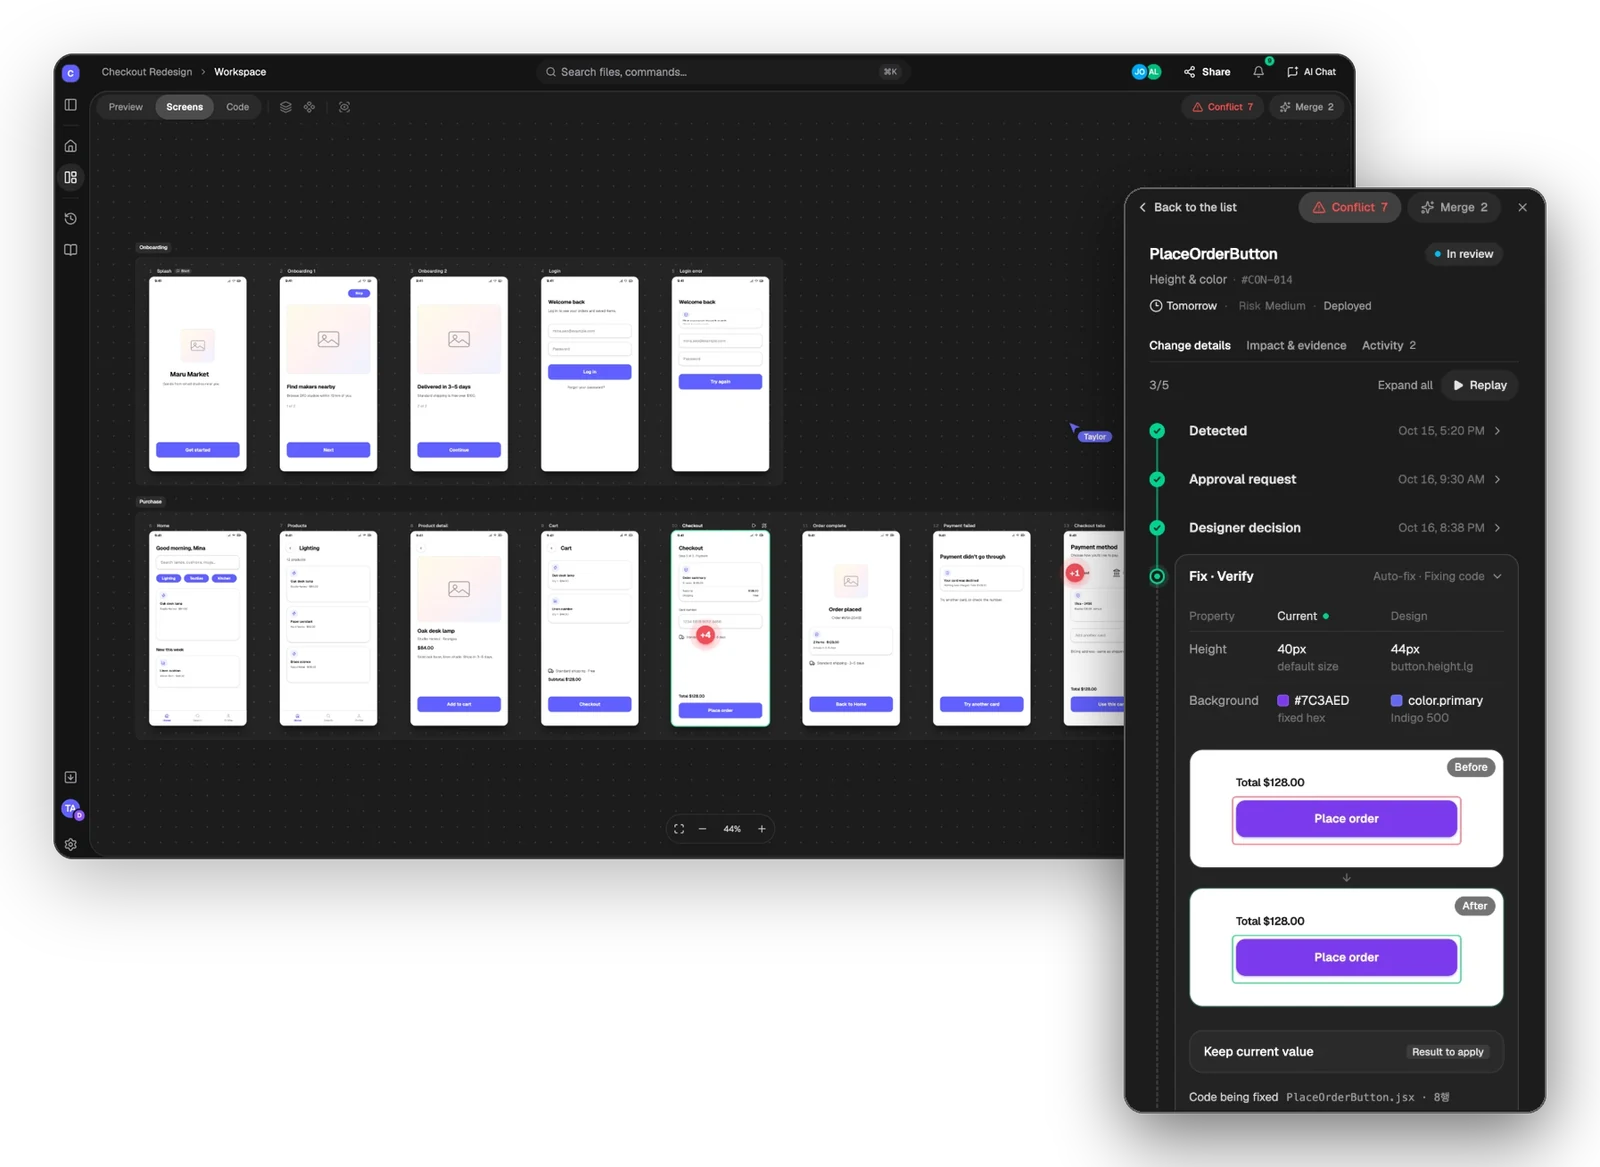
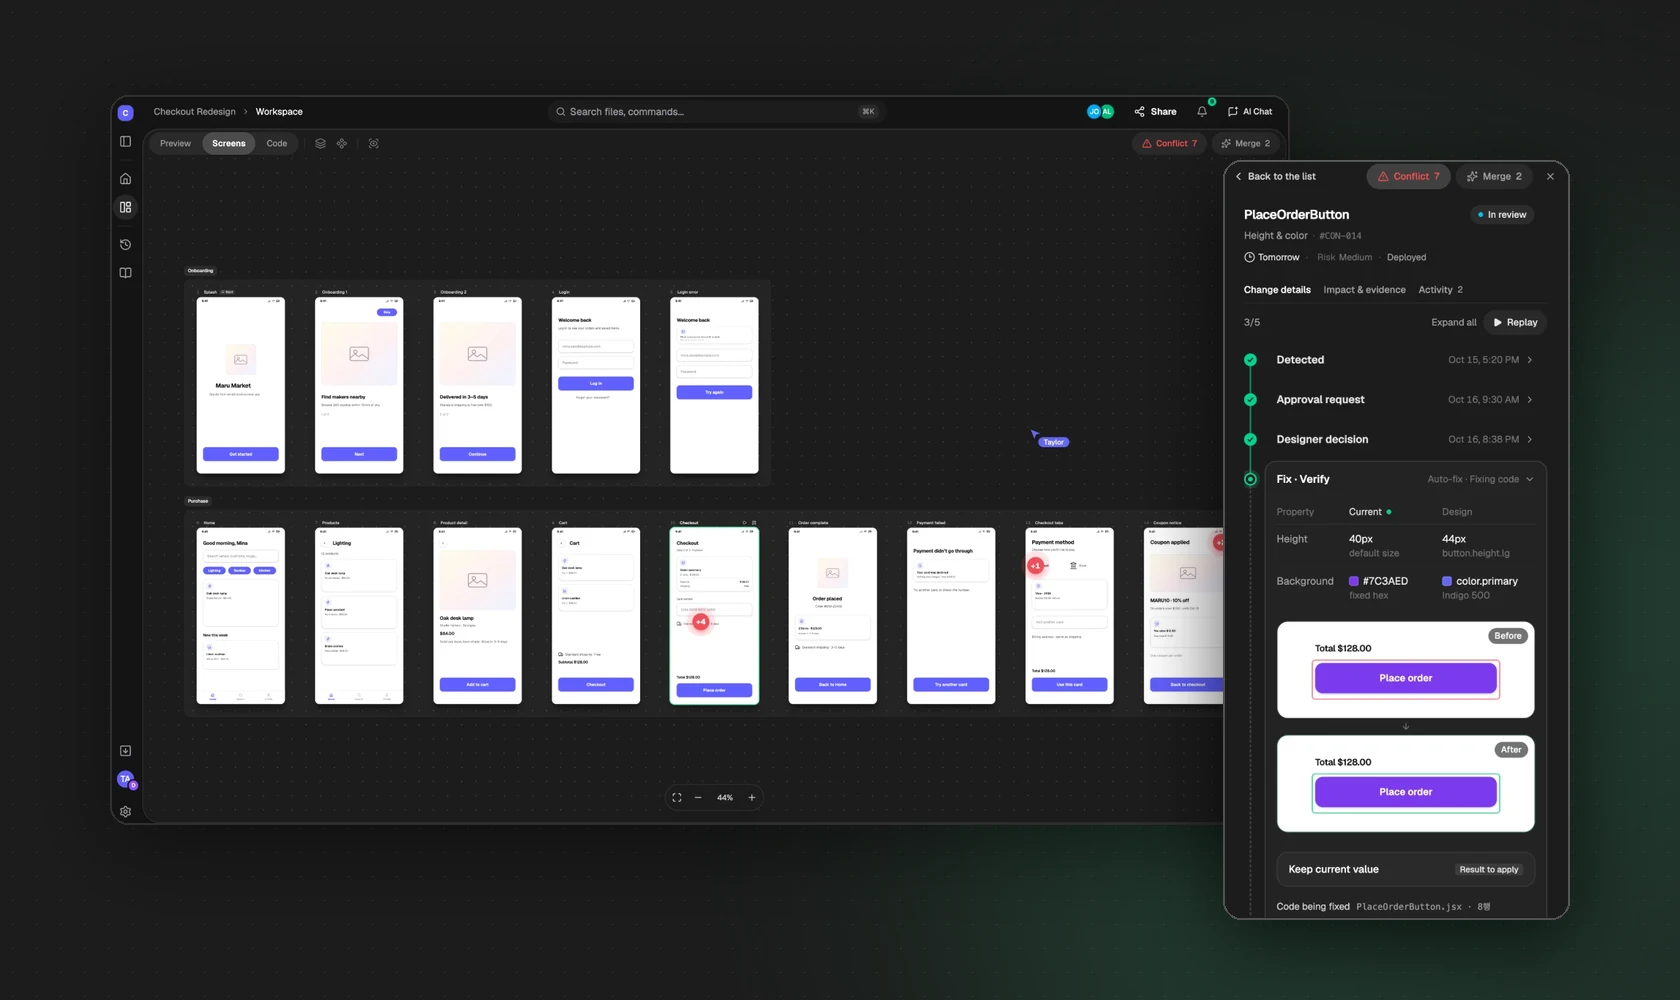
Rebuild the Devsign cover on its own canvas; Email as a button; simpler About copy
- Cover: workspace and change-review panel composed on the dark Devsign
  canvas, rounded, filling the landing card and the hero instead of a
  transparent cut-out inside a mint frame.
- About contact: Email is a pill button next to LinkedIn, with copy.
- About: drop the commit count and click-logging detail; toolkit grouped
  as Research / Design & build / Background.

Claude-Session: https://claude.ai/code/session_01VXWd6RpKBiKuFLnqarEaab

diff --git a/app/globals.css b/app/globals.css
@@ -683,9 +683,9 @@ details[open]::details-content {
   background-position: 12px 12px;
 }
 [data-canvas="true"] .selected-stage-object {
-  border-radius: 0;
-  outline: 1px solid #3dd491;
-  outline-offset: 2px;
+  border-radius: 24px;
+  outline: 1px solid rgb(255 255 255 / 0.08);
+  outline-offset: -1px;
 }
 [data-canvas="true"] .selected-stage-meta dd,
 [data-canvas="true"] .project-hero-details dd {
@@ -812,8 +812,10 @@ details[open]::details-content {
 .generated-frame { position: absolute; inset: 0; overflow: clip; border-radius: inherit; background: var(--surface); }
 [data-canvas="true"] .selected-stage-object,
 [data-gemini="true"] .selected-stage-object { outline: none; }
-[data-canvas="true"] .generated-frame { outline: 1px solid #3dd491; outline-offset: 2px; }
-[data-canvas="true"] .generated-frame { background: transparent; }
+[data-canvas="true"] .generated-frame { background: #1c1c1c; }
+.project-hero[data-canvas] .project-hero-cover { padding: 0 32px 32px; }
+.project-hero[data-canvas] .project-hero-cover img { max-width: 1440px; margin-inline: auto; border-radius: 24px; }
+@media (max-width: 47.99rem) { .project-hero[data-canvas] .project-hero-cover { padding: 0 16px 16px; } .project-hero[data-canvas] .project-hero-cover img { border-radius: 16px; } }
 [data-gemini="true"] .generated-frame { outline: 1px solid rgb(157 190 255 / 0.2); outline-offset: -1px; }
 @keyframes generated-frame {
   from { opacity: 0; transform: translateY(24px) scale(0.96); }

diff --git a/app/about/page.tsx b/app/about/page.tsx
@@ -16,9 +16,9 @@ export const metadata: Metadata = {
 };
 
 const columns = [
-  { title: "Design", items: skills.design },
-  { title: "Engineering", items: skills.engineering },
-  { title: "Security", items: skills.security },
+  { title: "Research", items: skills.research },
+  { title: "Design & build", items: skills.build },
+  { title: "Background", items: skills.background },
 ];
 
 // Same frame as a project page: editorial opener, a portrait beside a short bio,
@@ -147,8 +147,8 @@ export default async function AboutPage() {
               )}
               {site.email ? (
                 <div className="flex items-center gap-1">
-                  <a href={`mailto:${site.email}`} className="link text-sm text-accent">
-                    {site.email}
+                  <a href={`mailto:${site.email}`} className="press inline-flex h-4 items-center rounded-full bg-fill px-1.5 font-mono text-xs transition-colors duration-150 ease-standard hover:bg-fill-strong">
+                    Email
                   </a>
                   <CopyButton value={site.email} label="Copy email" />
                 </div>

diff --git a/types/mdx.d.ts b/types/mdx.d.ts
@@ -8,6 +8,6 @@ declare module "*.mdx" {
   export const bio: string[];
   export const principles: { title: string; body: string }[];
   export const strengths: { title: string; body: string }[];
-  export const skills: { design: string[]; engineering: string[]; security: string[] };
+  export const skills: { research: string[]; build: string[]; background: string[] };
   export default function MDXContent(props: MDXProps): React.JSX.Element;
 }
